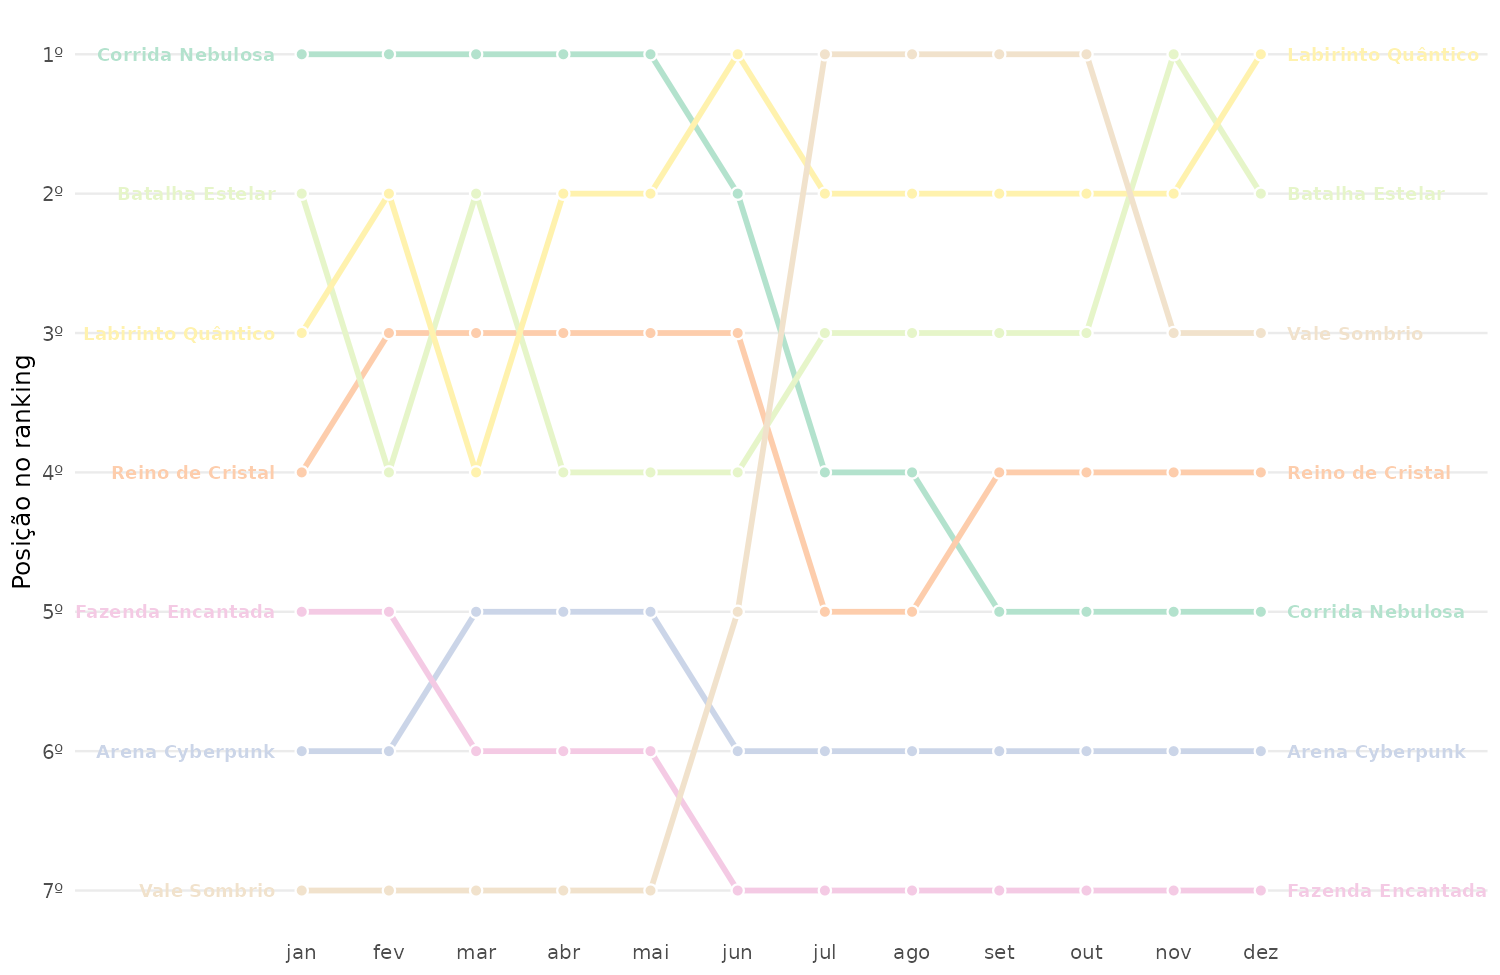
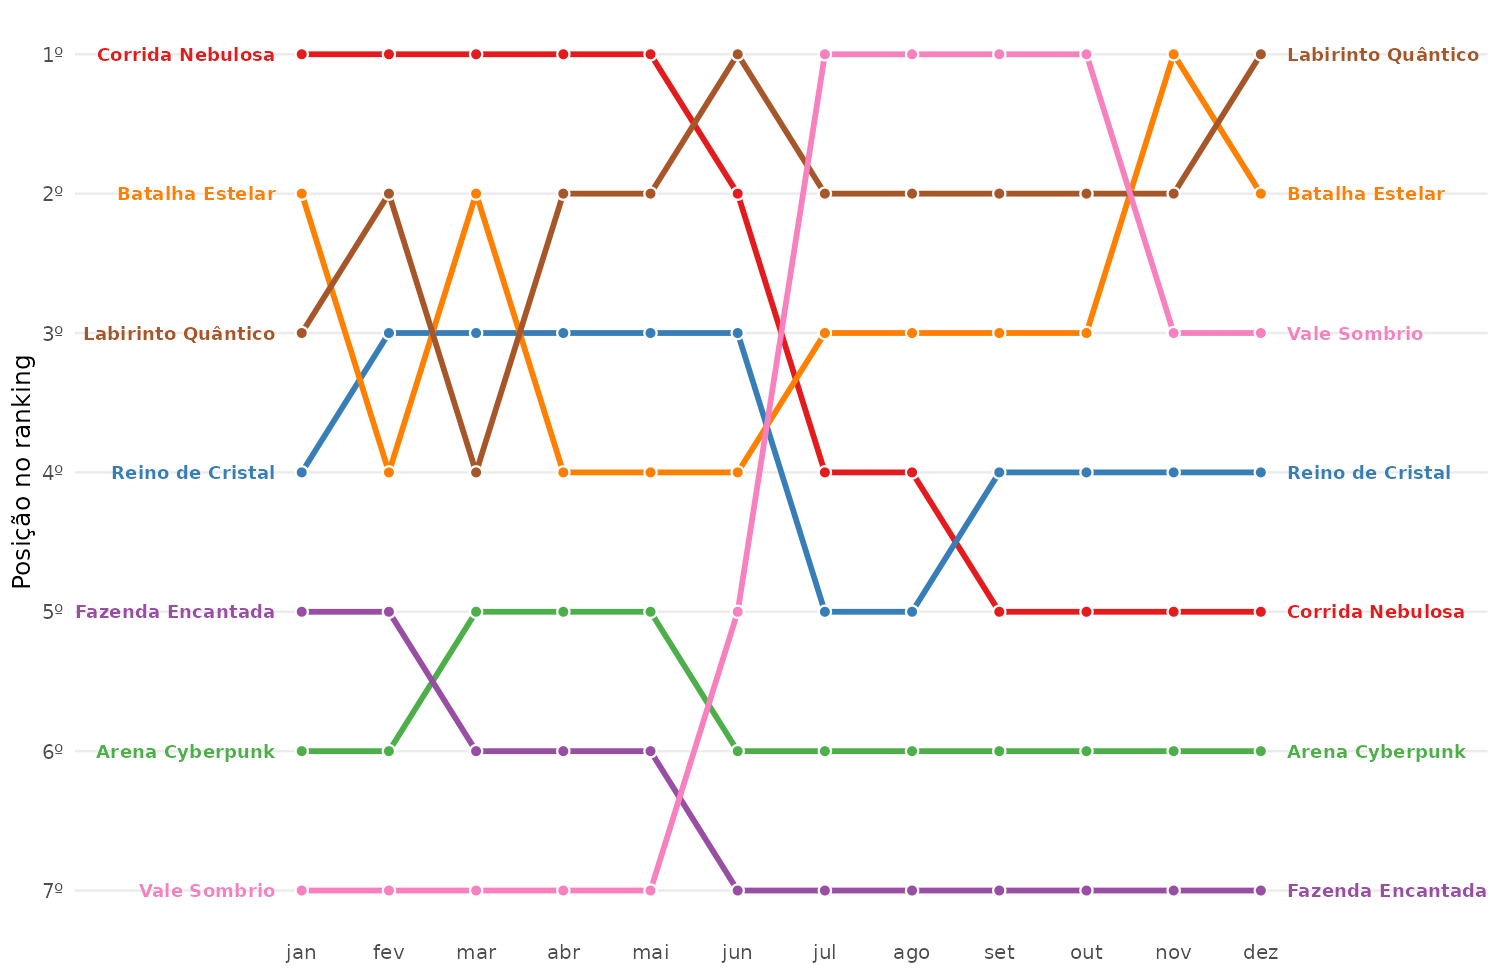
fix: aumenta contraste da paleta do bump chart (Set1 sem amarelo/cinza, no lugar de Pastel2)

diff --git a/docs/PROGRESS.md b/docs/PROGRESS.md
@@ -47,7 +47,7 @@ Log de todos os gráficos adicionados ao projeto. Atualize sempre que um gráfic
 
 ## Histórico do projeto
 
-- **2026-08-21**: trigésimo oitavo gráfico adicionado (bump chart, `ggplot2` base sem pacote extra), a partir do padrão de ranking do pacote `ggbump` — escolhido por ser a técnica mais óbvia que faltava em `ranking` (que já tinha um retrato parado de posição em 4 formas — barplot, lollipop, radar, circular barplot — mas nenhum gráfico mostrando a posição MUDANDO ao longo do tempo). Dados fictícios: 7 jogos de uma plataforma de streaming de gameplay fictícia, com pontuação de popularidade mensal gerada por passeio aleatório com deriva própria por jogo (`set.seed(3391)`) ao longo de 12 meses — um jogo ("Vale Sombrio") foge do passeio aleatório de propósito, lançado no meio do ano e disparando do 7º ao 1º lugar em poucos meses, a virada clássica que um bump chart existe pra tornar óbvia. Paleta `RColorBrewer::brewer.pal(7,"Pastel2")`, ainda não usada em nenhum outro gráfico do acervo — a última paleta qualitativa do Brewer que restava. **Achado de layout D3, generalizável pra qualquer gráfico futuro com rótulo de texto E eixo numérico no mesmo lado**: colocar o eixo Y numérico (`axisLeft`) na MESMA posição X onde os rótulos de texto (nome de cada linha) terminam faz os dois colidirem visualmente — texto sobreposto e ilegível, sem erro nenhum (só descoberto comparando a captura de tela real com o esperado). Corrigido separando as duas coisas em posições X diferentes (o eixo numérico bem mais próximo da borda esquerda, os nomes das linhas com folga própria mais à direita) — vale conferir esse tipo de colisão em qualquer gráfico novo que combine rótulo textual de dado com eixo numérico do mesmo lado do canvas. **Achado de ambiente**: confirmado que este ambiente Linux remoto não tem acesso de rede nenhum a `r-graph-gallery.com`/`data-to-viz.com` (bloqueado pelo proxy de saída, tanto via `curl` quanto via `WebFetch`) — diferente das sessões anteriores deste projeto (rodando em máquinas Windows do usuário, com navegador de verdade), então o campo `source` deste gráfico e do anterior (diagrama aluvial) foram preenchidos de memória, sem conferir a URL exata contra a página real; vale ao usuário confirmar/corrigir esses dois links quando tiver acesso.
+- **2026-08-21**: trigésimo oitavo gráfico adicionado (bump chart, `ggplot2` base sem pacote extra), a partir do padrão de ranking do pacote `ggbump` — escolhido por ser a técnica mais óbvia que faltava em `ranking` (que já tinha um retrato parado de posição em 4 formas — barplot, lollipop, radar, circular barplot — mas nenhum gráfico mostrando a posição MUDANDO ao longo do tempo). Dados fictícios: 7 jogos de uma plataforma de streaming de gameplay fictícia, com pontuação de popularidade mensal gerada por passeio aleatório com deriva própria por jogo (`set.seed(3391)`) ao longo de 12 meses — um jogo ("Vale Sombrio") foge do passeio aleatório de propósito, lançado no meio do ano e disparando do 7º ao 1º lugar em poucos meses, a virada clássica que um bump chart existe pra tornar óbvia. Paleta inicial `RColorBrewer::brewer.pal(7,"Pastel2")` trocada ainda na mesma sessão, a pedido do usuário ("cores difíceis de enxergar, mais contraste") — Pastel2 é claro demais pra linha fina (1.3pt), baixo contraste contra o fundo branco. Corrigido pra `brewer.pal(9,"Set1")[c(1,2,3,4,5,7,8)]` (pula o amarelo do índice 6, quase invisível no branco, e o cinza do índice 9, que se confunde com a grade) — generaliza pra qualquer paleta categórica futura usada em LINHA (diferente de área preenchida, onde uma cor mais clara ainda lê bem): confira o contraste contra o fundo antes de aceitar uma paleta Brewer inteira sem olhar cor a cor. **Achado de layout D3, generalizável pra qualquer gráfico futuro com rótulo de texto E eixo numérico no mesmo lado**: colocar o eixo Y numérico (`axisLeft`) na MESMA posição X onde os rótulos de texto (nome de cada linha) terminam faz os dois colidirem visualmente — texto sobreposto e ilegível, sem erro nenhum (só descoberto comparando a captura de tela real com o esperado). Corrigido separando as duas coisas em posições X diferentes (o eixo numérico bem mais próximo da borda esquerda, os nomes das linhas com folga própria mais à direita) — vale conferir esse tipo de colisão em qualquer gráfico novo que combine rótulo textual de dado com eixo numérico do mesmo lado do canvas. **Achado de ambiente**: confirmado que este ambiente Linux remoto não tem acesso de rede nenhum a `r-graph-gallery.com`/`data-to-viz.com` (bloqueado pelo proxy de saída, tanto via `curl` quanto via `WebFetch`) — diferente das sessões anteriores deste projeto (rodando em máquinas Windows do usuário, com navegador de verdade), então o campo `source` deste gráfico e do anterior (diagrama aluvial) foram preenchidos de memória, sem conferir a URL exata contra a página real; vale ao usuário confirmar/corrigir esses dois links quando tiver acesso.
 
 - **2026-08-21**: trigésimo sétimo gráfico adicionado (diagrama aluvial, `ggalluvial`), a partir de [r-graph-gallery.com/alluvial-diagram-ggalluvial](https://r-graph-gallery.com/alluvial-diagram-ggalluvial.html) — escolhido por ser a lacuna mais óbvia de `flow` (menor categoria do acervo, só Sankey e diagrama de cordas antes desta sessão): faltava o caso de acompanhar a MESMA unidade numa variável categórica que muda ao longo de observações repetidas, diferente do fluxo genérico do Sankey e da troca mútua do diagrama de cordas. Dados fictícios: 500 eleitores de uma cidade fictícia sorteados eleição a eleição (2016/2019/2022) por matrizes de transição entre 4 blocos (Esquerda/Centro/Direita/Abstenção), `set.seed(8452)` — mais provável ficar no mesmo bloco do que migrar, mas nunca determinístico, pra gerar fluxos plausíveis em vez de uma tabela puramente aleatória. Paleta `RColorBrewer::brewer.pal(4,"Pastel1")`, ainda não usada em nenhum outro gráfico do acervo. **Primeira sessão neste projeto rodando num ambiente Linux remoto** (não uma das máquinas Windows já documentadas em [SETUP.md](SETUP.md)) — R (4.3.3) instalado via `apt` (`r-base-core` + pacotes `r-cran-*` pré-compilados, incluindo `r-cran-ggalluvial`), bem mais rápido que compilar do CRAN. **Achado real de ambiente, generalizável pra qualquer script R futuro nesta sessão remota**: o locale nasce em `POSIX`/`C` (não UTF-8) — qualquer string com acento ("Eleição") ou caractere especial ("·") sai corrompida no `data.json` gerado, silenciosamente, sem erro no console; corrigido rodando `Rscript` com `LANG=C.UTF-8 LC_ALL=C.UTF-8` explícito. Verificação visual da versão interativa feita com o Chromium do Playwright já pré-instalado no ambiente (`/opt/pw-browsers/chromium`), sem precisar de `chromote`/R — confirmado por screenshot que passar o cursor num bloco isola os trechos que tocam ele, e que passar o cursor numa fita acompanha o mesmo grupo de eleitores nos dois trechos (três eleições) e não só no trecho isolado, incluindo o clique-pra-fixar já padrão no resto do acervo. **Técnica D3, generalizável pra qualquer gráfico aluvial futuro**: um diagrama aluvial de eixos discretos é, por baixo dos panos, um Sankey em várias colunas — reaproveitado o mesmo `d3-sankey` já usado no Sankey deste acervo, com cada "lode" (sequência completa de um grupo) virando dois trechos (um por par de eleições consecutivas) com um identificador em comum, o que permite destacar o trajeto inteiro de um grupo ao passar o cursor em qualquer um dos dois trechos — não só o hop isolado, diferença chave em relação ao Sankey existente.
 
